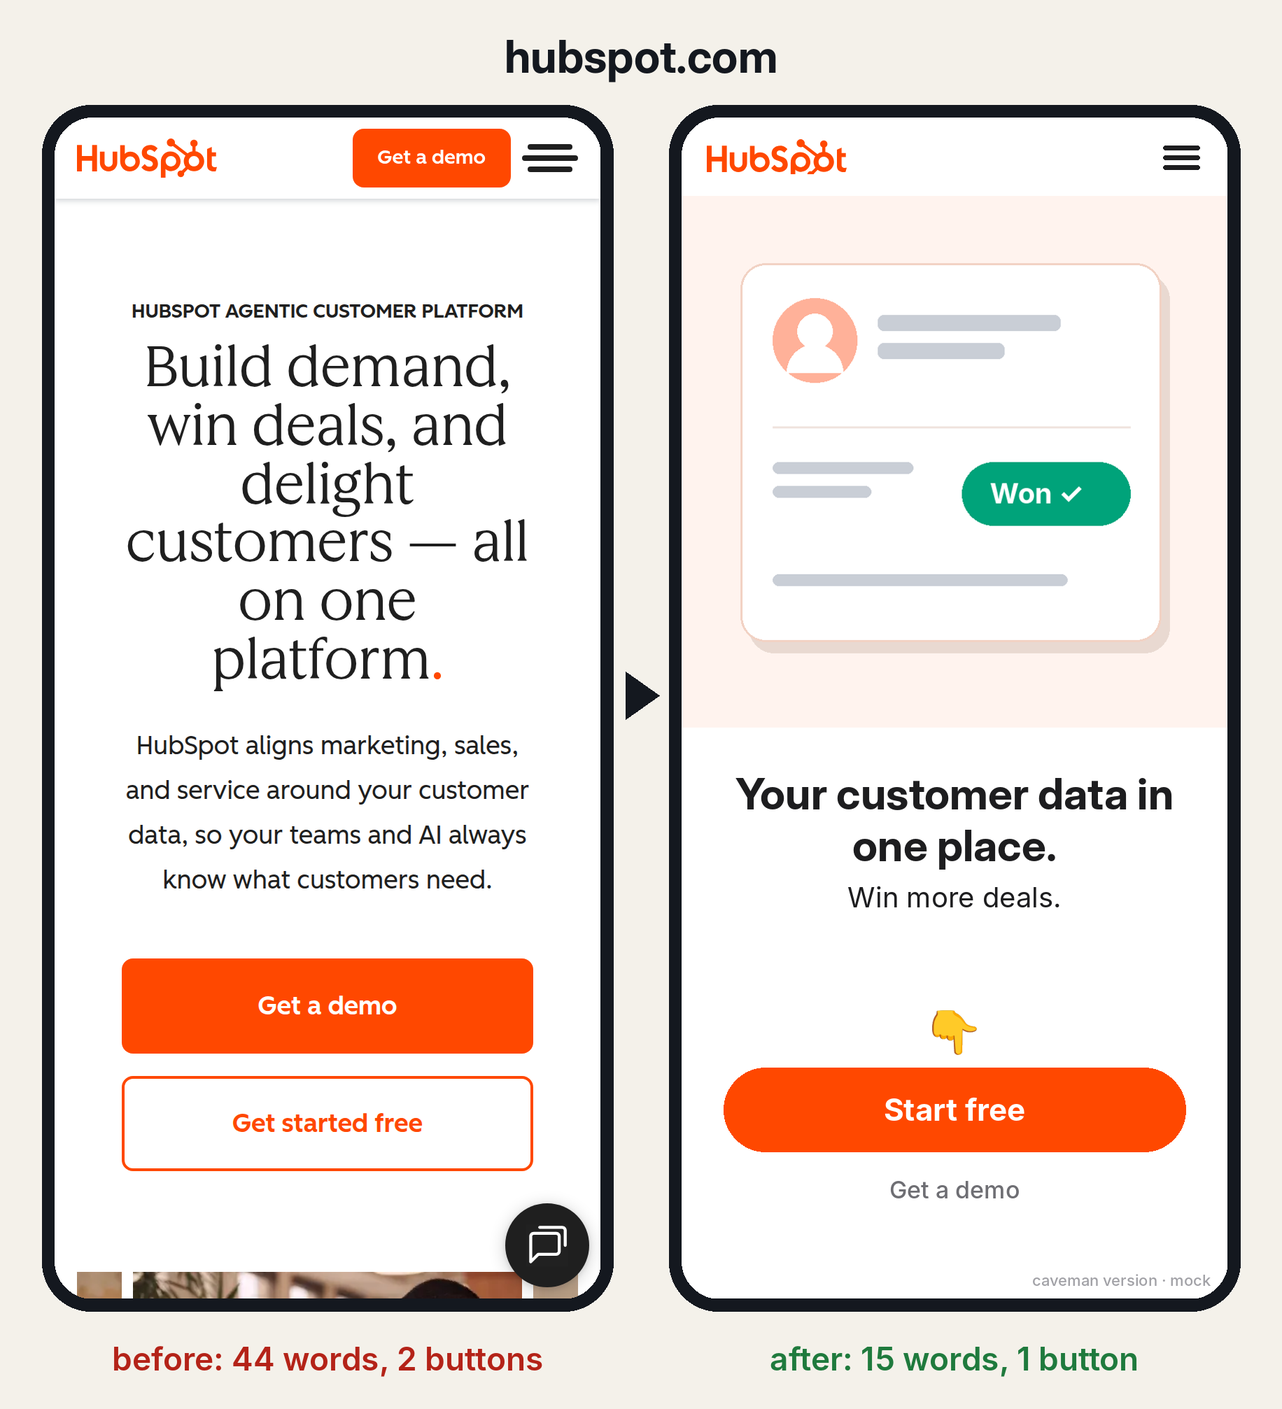
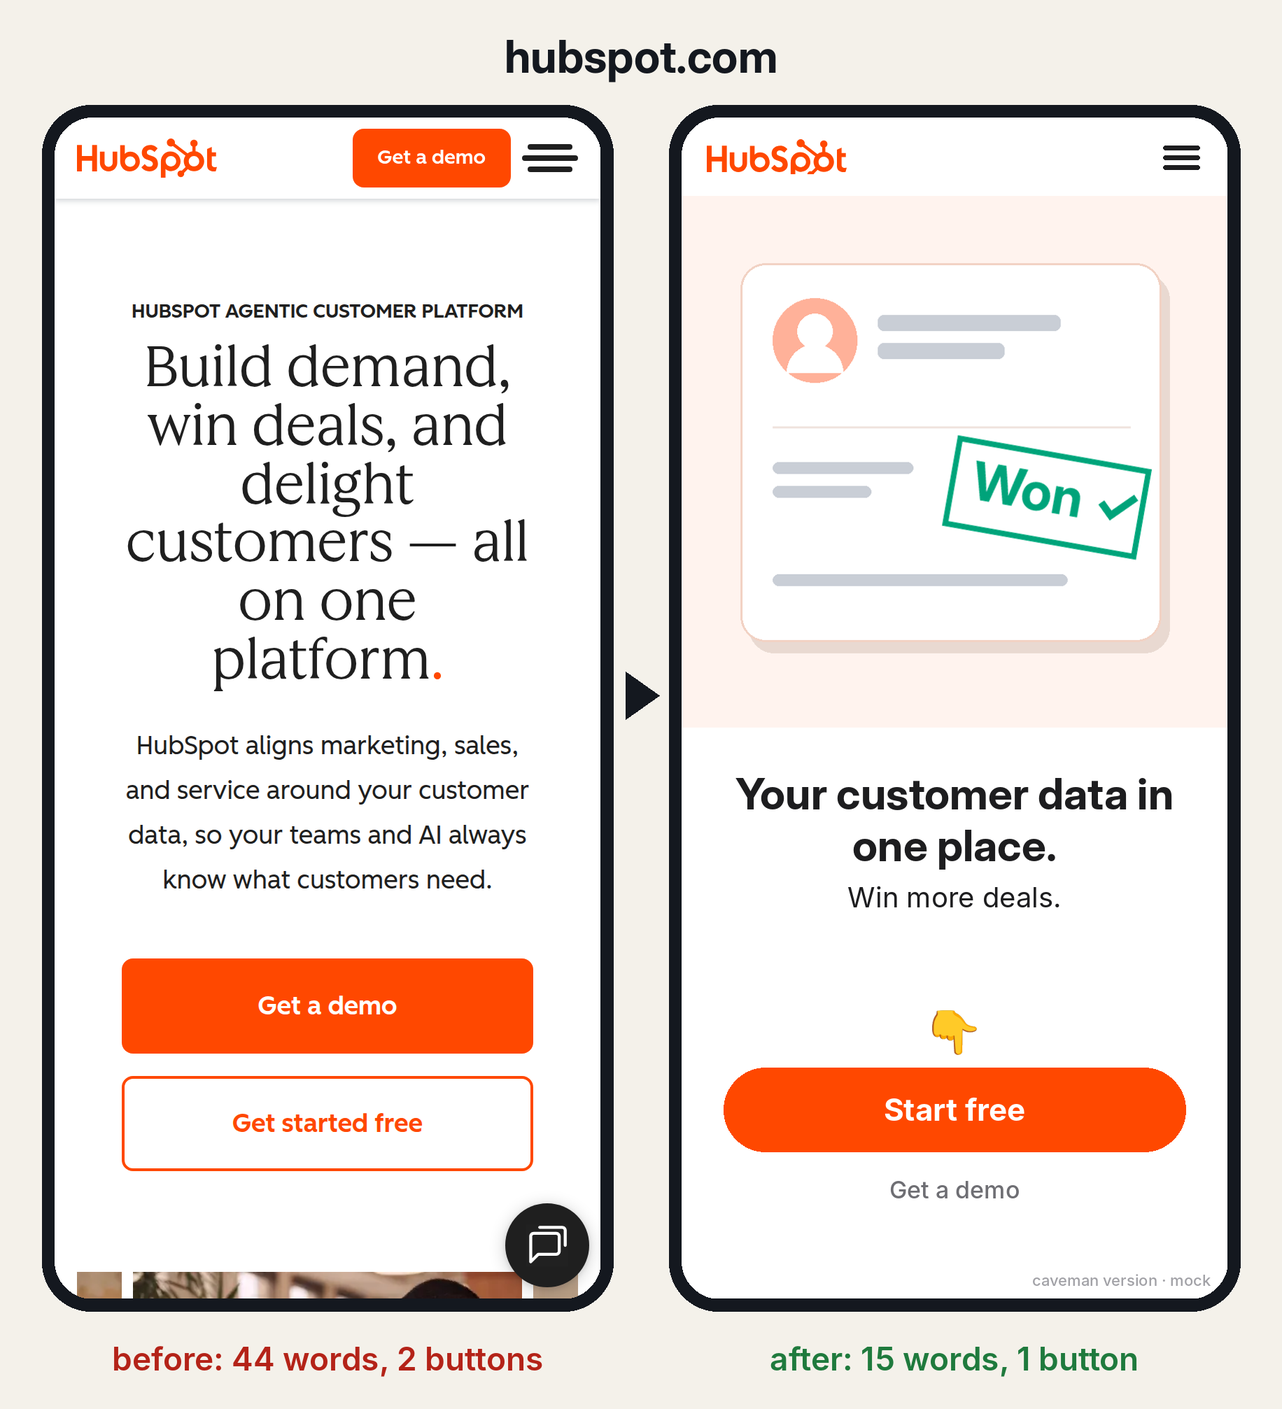
feat(caveman-marketing): desktop layout rule and a desktop before/after (DIVE-6603) (#29)
* feat(caveman-marketing): a skill that cuts ads, pages and funnels to a 3-second glance (DIVE-6598)

One picture, at most 15 words and one button per screen, a step bar on every
flow step, no industry jargon, and a funnel that ends on the first win.
scripts/check.py counts every word on each screen, finds the one button and
flags jargon; scripts/test.sh pins it (13 arms). Examples are real pages:
a Workday LinkedIn ad, the ServiceNow homepage and the form its
"Get Started" opens, each with a BEFORE that fails and an AFTER that passes.

* feat(caveman-marketing): skill page with a real test run on Apple, HubSpot and Atlassian (DIVE-6601)

Three fresh agents got only the skill and one real homepage each on a phone
(2026-10-20). Their BEFORE files fail check.py and their AFTERs pass; the
rendered pairs (real screenshot left, the skill's version right) lead the new
caveman-marketing/README.md, so the folder page can be shared on its own.

* feat(caveman-marketing): desktop layout rule and a desktop before/after on the skill page (DIVE-6603)

On desktop the picture fills the left half and the words and button sit in
the right half, same 15-word cap. The README shows hubspot.com at 1440x900:
76 words and 2 filled buttons, down to 15 words and 1 button.

* fix(caveman-marketing): nothing in the picture may look like a second button (DIVE-6603)

lodar: the green "Won" pill in HubSpot's drawn picture read as a second
[…]

Changed region(s): [[0.7176, 0.3123, 0.9048, 0.406]]

diff --git a/caveman-marketing/SKILL.md b/caveman-marketing/SKILL.md
@@ -53,6 +53,8 @@ grunt test. This skill adds hard numbers and covers ads and funnels too.
 3. **One button.** Exactly one filled button, the biggest and brightest thing on the
    screen, with 👇 right above it. Everything else is small grey text. Three equal
    choices is a menu. The cookie banner never outshines it.
+   Nothing in the picture may look tappable either: a filled pill or chip with words on it
+   reads as a second button. Use a stamp, a tick or plain text instead.
 4. **The button says what happens next, and the next screen keeps the promise.**
    "Get started" that opens a 15-question sales form breaks it. "Pick a time" that
    opens a calendar keeps it.
@@ -113,6 +115,8 @@ and exits non-zero if any screen fails. `scripts/test.sh` checks the checker.
   second button with other words into the image.
 - **Landing page.** The screen is the first view on a phone (390×844). The menu becomes
   one icon. Each screen further down follows the same rules and repeats the same button.
+  On desktop the picture fills the left half, and the words, 👇 and button sit in the right
+  half. Same copy, same 15-word cap.
 - **Funnel.** Every step is a screen, from the ad to the first win. Sign-in is one button
   ("Continue with Google") with email as a small link. A legal line the lawyers need is
   one short grey line, and it counts.

diff --git a/caveman-marketing/README.md b/caveman-marketing/README.md
@@ -19,6 +19,13 @@ The real screenshot is on the left and the skill's version is on the right.
 
 ![atlassian.com before and after](assets/atlassian.png)
 
+## On desktop too
+
+The same rules on a 1440×900 screen. The picture takes the left half, and the words and the one button
+sit on the right.
+
+![hubspot.com on desktop, before and after](assets/hubspot-desktop.png)
+
 ## The test
 
 Look for 3 seconds, then cover the screen. Can you answer all three?
@@ -31,7 +38,7 @@ Look for 3 seconds, then cover the screen. Can you answer all three?
 
 1. A picture fills the top half.
 2. 15 words max. Every word counts, buttons too.
-3. One filled button, with 👇 above it.
+3. One filled button, with 👇 above it. Nothing in the picture looks like a second one.
 4. The button says what happens next.
 5. A step bar on every step of a signup.
 6. No words only your industry uses.

diff --git a/caveman-marketing/references/examples.md b/caveman-marketing/references/examples.md
@@ -115,6 +115,7 @@ page, `README.md`.
 | apple.com | 18 words · 2 filled buttons · "Hello, hello." says nothing | 12 words · 1 button | `examples/apple-home.*` |
 | hubspot.com | 44 words · 2 filled buttons · "agentic", "platform" | 15 words · 1 button | `examples/hubspot-home.*` |
 | atlassian.com | 32 words · an event banner where the picture goes | 15 words · 1 button | `examples/atlassian-home.*` |
+| hubspot.com, desktop 1440×900 | 76 words · 2 filled buttons · "agentic", "platform", "solutions" | 15 words · 1 button (same copy, picture left) | `examples/hubspot-desk.*` |
 
 Apple's AFTER line "The first iPhone that folds" comes from Apple's own iPhone Duo page
 ("the first foldable iPhone"). tesla.com was in the plan but blocks automated browsers.
